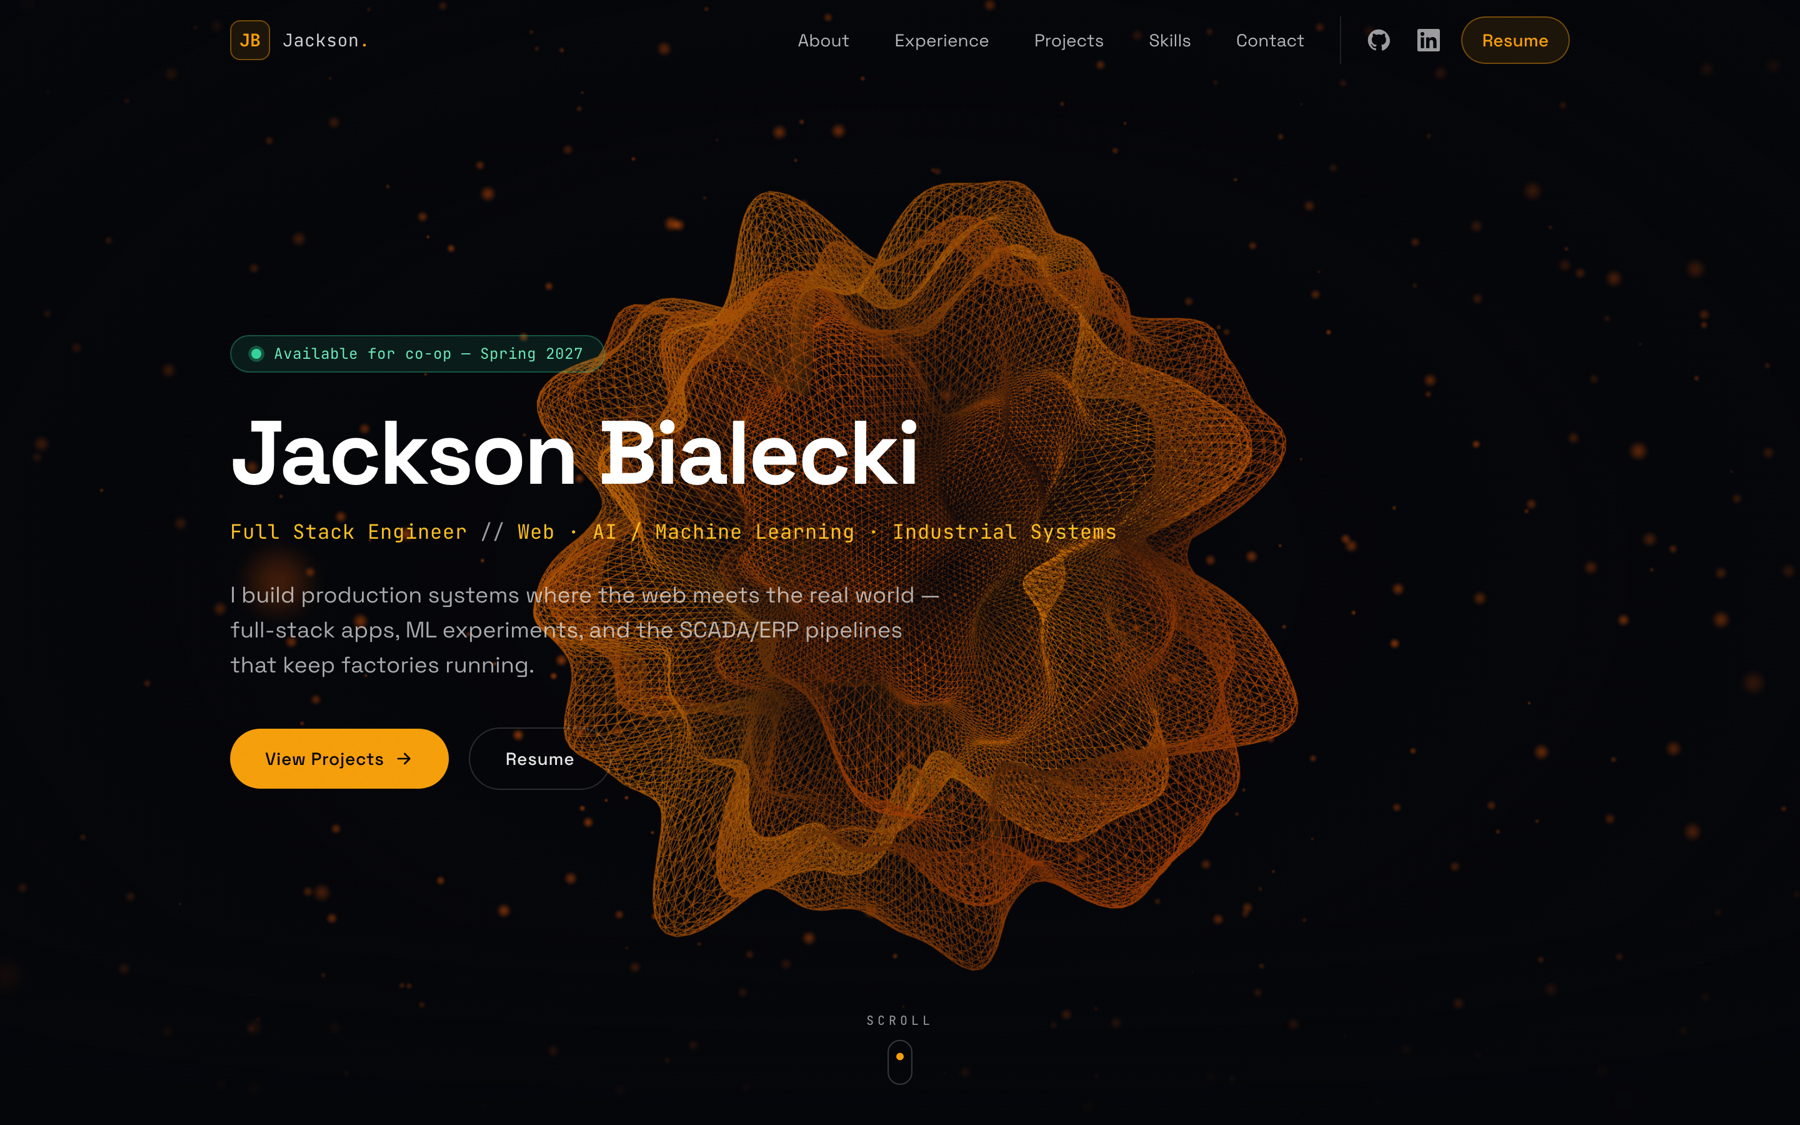
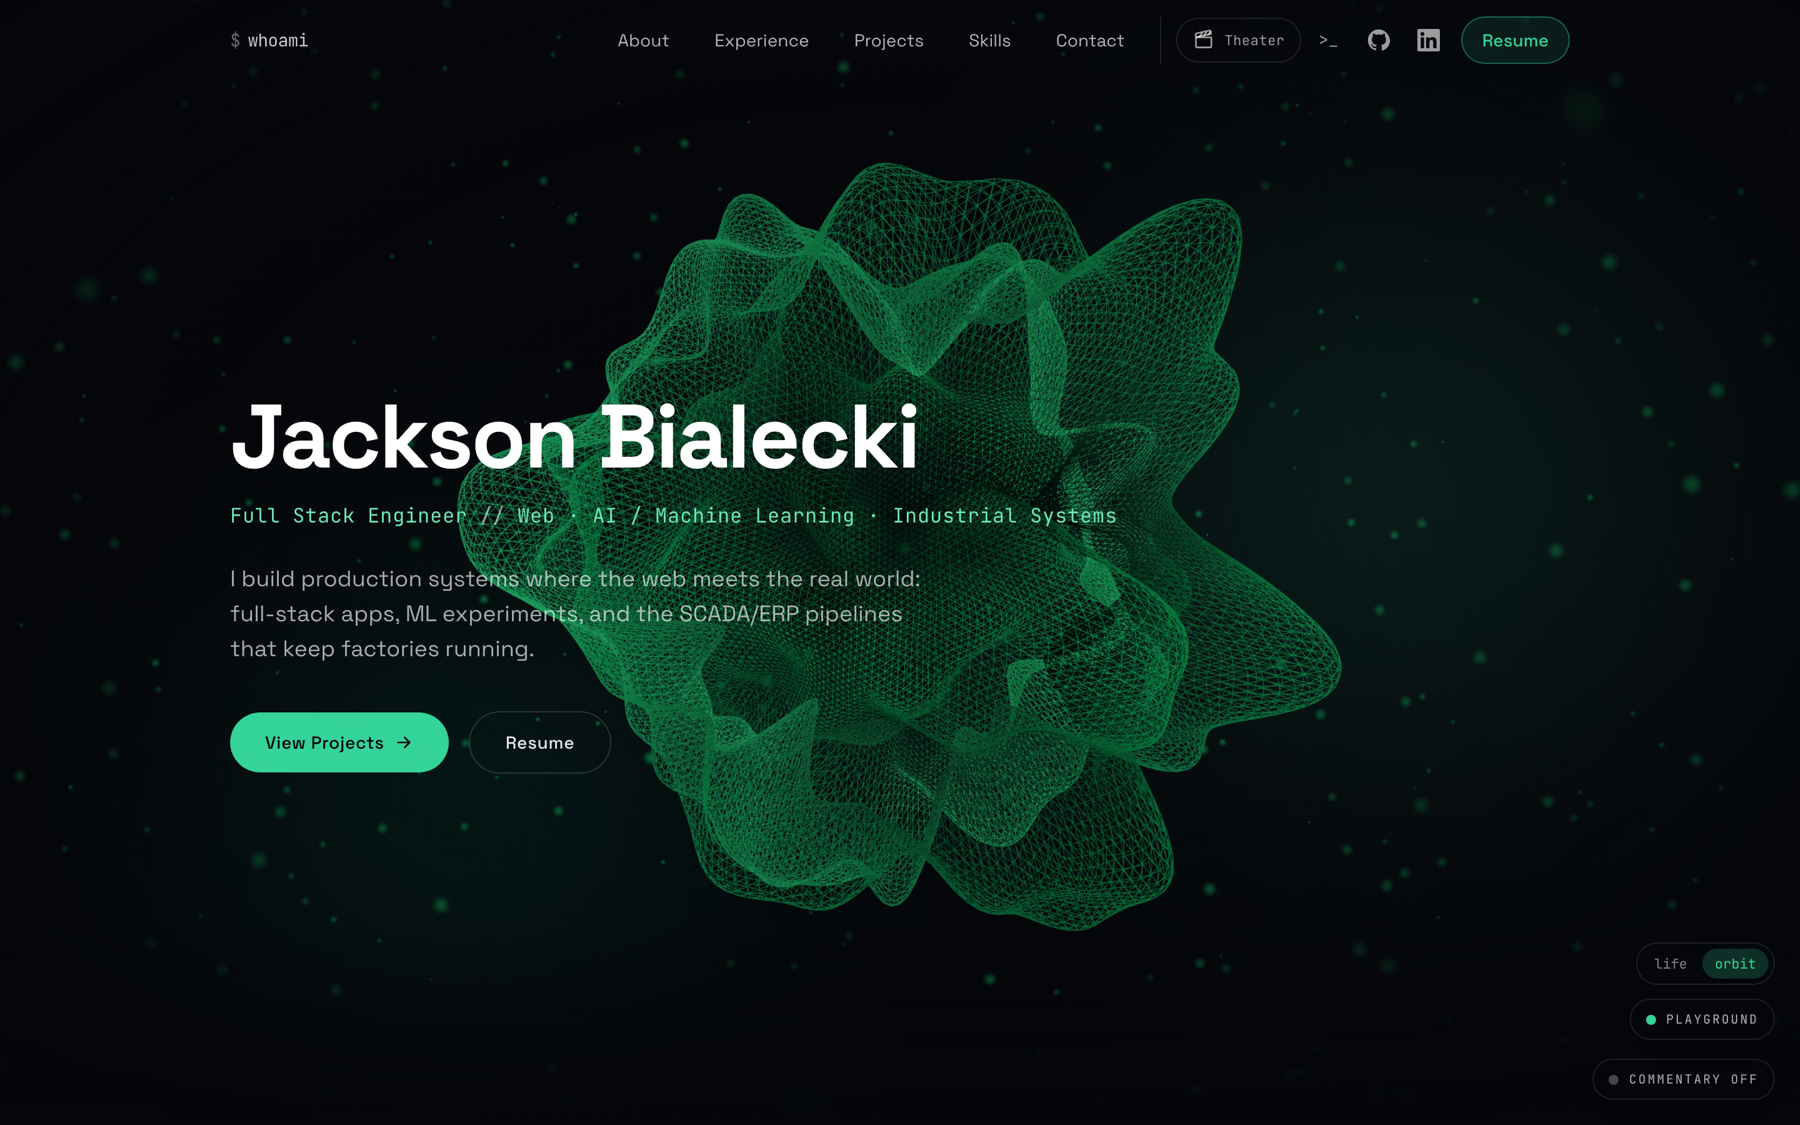
Updated with new resume

diff --git a/lib/caseStudies.ts b/lib/caseStudies.ts
@@ -36,14 +36,14 @@ export const professionalCaseStudySlugs = [
 export const caseStudies: CaseStudy[] = [
   {
     slug: "voyage-foods-dashboard",
-    lastModified: "2026-07-20",
+    lastModified: "2026-07-23",
     company: "Voyage Foods",
     cardName: "Manufacturing Ops Dashboard",
     cardBlurb:
       "A centralized React dashboard unifying Cin7 Core ERP, SafetyChain QA, and 200+ live Ignition SCADA tags into one plant-floor view with a SQLite → PostgreSQL migration powering the history layer.",
     headline: "One dashboard for the plant floor: ERP, QA, and 200+ live SCADA tags",
     role: "Computer Science Engineer Intern",
-    period: "May 2026 - Aug 2026",
+    period: "May 2026 - Present",
     location: "Mason, OH",
     accentLabel: "Industrial Systems",
     tags: ["React", "PostgreSQL", "Ignition SCADA", "OPC-UA", "Cin7 ERP", "SafetyChain"],
@@ -239,6 +239,68 @@ export const caseStudies: CaseStudy[] = [
       alt: "The 8-bit computer built across multiple breadboards with hundreds of jumper wires",
       width: 2000,
       height: 1500,
+    },
+  },
+  {
+    slug: "media-archiver",
+    lastModified: "2026-07-23",
+    company: "Personal Project",
+    cardName: "Self-Hosted Media Archiver",
+    cardBlurb:
+      "A Dockerized, fully-local archive for 11,000+ saved short-form videos: resumable concurrent downloads, a SQLite index, FastAPI range streaming, and a virtualized React interface, with optional Plex export.",
+    headline: "Archiving 11,000+ short-form videos, fully self-hosted",
+    role: "Solo Build",
+    period: "2025 - Present",
+    location: "Self-Hosted · Docker",
+    accentLabel: "Full-Stack · Self-Hosted",
+    tags: ["Python", "FastAPI", "React", "TypeScript", "SQLite", "Docker"],
+    summary:
+      "Short-form videos you save aren't really yours: they live on someone else's servers and vanish when a video is taken down or an account goes private. I built a self-hosted archive that pulls everything I'd favorited onto my own disk, indexes it, and streams it back through a fast web interface. No cloud, no account, nothing leaving the machine.",
+    problem: [
+      "I'd favorited thousands of short-form videos over the years, and they kept disappearing: deleted posts, private accounts, dead links. A 'saved' list is only a bookmark to content someone else controls, not a copy of it.",
+      "Archiving that much media is its own problem. Downloads fail and have to resume without starting over, 11,000+ files need to stay organized and de-duplicated, and browsing a library that large has to feel instant instead of loading everything at once.",
+    ],
+    approach: [
+      {
+        title: "Download resumably, in parallel",
+        body: "I built a concurrent downloader that fetches many items at once and checkpoints its progress, so an interrupted run picks up exactly where it stopped instead of re-downloading what it already has.",
+      },
+      {
+        title: "Index everything in SQLite",
+        body: "Every item is recorded in a SQLite index with its metadata, so the archive can dedupe, track what's already downloaded, and answer queries against 11,000+ entries without scanning the disk.",
+      },
+      {
+        title: "Stream it back with FastAPI",
+        body: "A FastAPI backend serves the media with HTTP range requests, so videos seek and scrub instantly and the browser only pulls the bytes it needs instead of whole files.",
+      },
+      {
+        title: "Browse thousands of items smoothly",
+        body: "The React front end is virtualized, rendering only the rows on screen, so scrolling a library thousands of items deep stays smooth. The whole thing ships as a Docker container and can optionally export into a Plex library.",
+      },
+    ],
+    stack: [
+      { group: "Backend", items: ["Python", "FastAPI", "Range Streaming"] },
+      { group: "Frontend", items: ["React", "TypeScript", "Virtualized Lists"] },
+      { group: "Data", items: ["SQLite", "Local Media Store"] },
+      { group: "Deploy", items: ["Docker", "Self-Hosted", "Plex (optional)"] },
+    ],
+    outcomes: [
+      { metric: "11,000+", label: "media items archived & streamable" },
+      { metric: "Self-hosted", label: "fully local, no cloud services" },
+      { metric: "Docker", label: "one-container deploy" },
+    ],
+    highlights: [
+      "Resumable, concurrent downloads that never restart from zero.",
+      "SQLite index keeps 11,000+ items de-duplicated and queryable.",
+      "FastAPI range streaming for instant seeking and scrubbing.",
+      "Virtualized React UI stays smooth thousands of items deep.",
+      "Optional Plex export to watch the archive anywhere.",
+    ],
+    image: {
+      src: "/media-archiver-overview.svg",
+      alt: "Data-flow diagram: saved short-form media is pulled by a resumable, concurrent downloader, indexed in SQLite alongside a local media store, and served by a FastAPI backend with HTTP range streaming to a virtualized React interface and an optional Plex library, all running self-hosted with no cloud services.",
+      width: 1360,
+      height: 460,
     },
   },
   {

diff --git a/lib/data.ts b/lib/data.ts
@@ -130,6 +130,17 @@ export const projects: Project[] = [
     featured: true,
     image: "/8bit-computer.webp",
   },
+  {
+    name: "Self-Hosted Short-Form Media Archiver",
+    blurb:
+      "A Dockerized, fully-local archive for 11,000+ saved short-form videos. Resumable concurrent downloads, a SQLite index, FastAPI range streaming, and a virtualized React interface keep a library thousands of items deep fast and entirely under your control, with optional Plex export.",
+    tools: ["Python", "FastAPI", "React", "TypeScript", "SQLite", "Docker"],
+    github: "https://github.com/JackB296/tiktok-favorites-archiver",
+    caseStudy: "media-archiver",
+    accentLabel: "Full-Stack · Self-Hosted",
+    featured: true,
+    image: "/media-archiver-overview.svg",
+  },
   ...demoProjects,
 ];
 
@@ -141,23 +152,23 @@ type SkillGroup = {
 export const skillGroups: SkillGroup[] = [
   {
     title: "Languages",
-    skills: ["C#", "Java", "Python", "C", "C++", "SQL", "JavaScript", "HTML/CSS", "MATLAB", "VBA"],
+    skills: ["TypeScript", "JavaScript", "C#", "Python", "Java", "SQL", "C / C++", "HTML/CSS"],
   },
   {
     title: "Frameworks",
-    skills: ["React", "Angular", "Node.js", "Flask", ".NET"],
+    skills: ["React", "Next.js", "Angular", "Node.js", ".NET", "Flask"],
   },
   {
-    title: "Databases & Cloud",
-    skills: ["PostgreSQL", "Google Cloud SQL", "Cloud Scheduler", "SQLite", "MS Access", "pgAdmin"],
+    title: "Data & Infrastructure",
+    skills: ["PostgreSQL", "SQLite", "Docker", "Kubernetes", "Git", "CI/CD", "Google Cloud Platform"],
   },
   {
     title: "Industrial Systems",
-    skills: ["Ignition SCADA", "Tag Historian", "OPC-UA", "Siemens S7 PLCs", "Cin7 ERP", "SafetyChain"],
+    skills: ["Ignition SCADA", "OPC-UA", "Siemens S7 PLCs", "Cin7 Core ERP", "SafetyChain QA", "Limble CMMS"],
   },
   {
-    title: "Tools & Concepts",
-    skills: ["Git", "REST APIs", "API Integration", "Database Design", "SSL/TLS", "Full-Stack Dev"],
+    title: "AI-Assisted Development",
+    skills: ["Claude Code", "OpenAI Codex", "MCP Servers", "Custom Claude Skills", "Agentic Workflows"],
   },
   {
     title: "Professional",

diff --git a/tests/seo.spec.ts b/tests/seo.spec.ts
@@ -13,13 +13,13 @@ test("sitemap publishes stable modification dates for indexable routes", async (
 
   const sitemap = await response.text();
   expect(sitemap).toMatch(
-    /<loc>https:\/\/jbialecki\.com<\/loc>\s*<lastmod>2026-07-20T00:00:00.000Z<\/lastmod>/
+    /<loc>https:\/\/jbialecki\.com<\/loc>\s*<lastmod>2026-07-23T00:00:00.000Z<\/lastmod>/
   );
   expect(sitemap).toMatch(
     /<loc>https:\/\/jbialecki\.com\/resume<\/loc>\s*<lastmod>2026-07-19T00:00:00.000Z<\/lastmod>/
   );
   expect(sitemap).toMatch(
-    /<loc>https:\/\/jbialecki\.com\/work\/voyage-foods-dashboard<\/loc>\s*<lastmod>2026-07-20T00:00:00.000Z<\/lastmod>/
+    /<loc>https:\/\/jbialecki\.com\/work\/voyage-foods-dashboard<\/loc>\s*<lastmod>2026-07-23T00:00:00.000Z<\/lastmod>/
   );
   expect(sitemap).toMatch(
     /<loc>https:\/\/jbialecki\.com\/flappy<\/loc>\s*<lastmod>2026-07-20T00:00:00.000Z<\/lastmod>/
@@ -55,7 +55,7 @@ test("case studies publish TechArticle structured data", async ({ page }) => {
     "@type": "TechArticle",
     headline: "One dashboard for the plant floor: ERP, QA, and 200+ live SCADA tags",
     url: "https://jbialecki.com/work/voyage-foods-dashboard",
-    dateModified: "2026-07-20",
+    dateModified: "2026-07-23",
     author: {
       "@type": "Person",
       name: "Jackson Bialecki",

diff --git a/components/home/Skills.tsx b/components/home/Skills.tsx
@@ -17,7 +17,7 @@ const icons: Record<string, ReactNode> = {
       <rect x="14" y="14" width="7" height="7" rx="1.5" />
     </>
   ),
-  "Databases & Cloud": (
+  "Data & Infrastructure": (
     <>
       <ellipse cx="12" cy="6" rx="8" ry="3" />
       <path d="M4 6v6c0 1.7 3.6 3 8 3s8-1.3 8-3V6M4 12v6c0 1.7 3.6 3 8 3s8-1.3 8-3v-6" strokeLinecap="round" />
@@ -28,10 +28,10 @@ const icons: Record<string, ReactNode> = {
       <path d="M3 21h18M5 21V10l5 3V10l5 3V7l4 2v12" strokeLinecap="round" strokeLinejoin="round" />
     </>
   ),
-  "Tools & Concepts": (
+  "AI-Assisted Development": (
     <>
-      <circle cx="12" cy="12" r="3" />
-      <path d="M12 2v3M12 19v3M2 12h3M19 12h3M5 5l2 2M17 17l2 2M19 5l-2 2M7 17l-2 2" strokeLinecap="round" />
+      <path d="M12 3l1.9 4.6L18.5 9.5 13.9 11.4 12 16l-1.9-4.6L5.5 9.5l4.6-1.9L12 3z" strokeLinejoin="round" />
+      <path d="M18.5 15.5l.8 1.9 1.9.8-1.9.8-.8 1.9-.8-1.9-1.9-.8 1.9-.8.8-1.9z" strokeLinejoin="round" />
     </>
   ),
   Professional: (

diff --git a/lib/structuredData.ts b/lib/structuredData.ts
@@ -3,7 +3,7 @@ import type { Demo } from "./demos";
 import { profile } from "./data";
 
 export const SITE_URL = "https://jbialecki.com";
-export const PROFILE_LAST_MODIFIED = "2026-07-20";
+export const PROFILE_LAST_MODIFIED = "2026-07-23";
 /** Bump when the résumé PDF (public/Bialecki_Jackson_Resume2026.pdf) is regenerated. */
 export const RESUME_LAST_MODIFIED = "2026-07-19";
 
@@ -33,9 +33,13 @@ const person = {
     "Full-Stack Web Development",
     "Artificial Intelligence",
     "Machine Learning",
+    "AI-Assisted Development",
     "Industrial Control Systems",
     "PostgreSQL",
     "React",
+    "Next.js",
+    "TypeScript",
+    "Docker",
   ],
   sameAs: [profile.github, profile.linkedin],
 };

diff --git a/components/home/About.tsx b/components/home/About.tsx
@@ -4,11 +4,11 @@ import { profile, education } from "@/lib/data";
 import Reveal from "../ui/Reveal";
 
 const competencies = [
-  "Full-Stack Web (React · Angular · .NET · Node)",
+  "Full-Stack Web (React · Next.js · Angular · .NET)",
   "Data & Migrations (PostgreSQL · SQL)",
   "Industrial / SCADA Integration",
   "API Design & Third-Party Integration",
-  "AI / ML Experimentation",
+  "AI-Assisted Development (Claude Code · Codex · MCP)",
 ];
 
 export default function About() {

diff --git a/lib/projectNav.ts b/lib/projectNav.ts
@@ -13,6 +13,7 @@ const caseStudyRing: RingItem[] = professionalCaseStudies.map((c) => ({
 // The 8-bit case-study page and all demo pages cycle through this ring.
 const projectRing: RingItem[] = [
   { href: "/work/8-bit-computer", label: "8-Bit Computer" },
+  { href: "/work/media-archiver", label: "Media Archiver" },
   ...demos.map((d) => ({ href: `/${d.slug}`, label: `${d.title} ${d.titleAccent}` })),
 ];
 

diff --git a/tests/smoke.spec.ts b/tests/smoke.spec.ts
@@ -18,6 +18,7 @@ const pages = [
   "/work/jakapa-canvas-integration",
   "/work/aef-access-migration",
   "/work/8-bit-computer",
+  "/work/media-archiver",
 ];
 
 for (const path of pages) {

diff --git a/README.md b/README.md
@@ -6,7 +6,7 @@
 
 The site behind [jbialecki.com](https://jbialecki.com): a WebGL hero, sixteen film modes that restyle the whole site, seven interactive demos you can play in the browser, a guest terminal, and write-ups of the software I've shipped on a factory floor and at an ed-tech startup.
 
-[![Live site](https://img.shields.io/badge/live-jbialecki.com-f59e0b?style=flat-square)](https://jbialecki.com)
+[![Live site](https://img.shields.io/badge/live-jbialecki.com-34d399?style=flat-square)](https://jbialecki.com)
 &nbsp;![Next.js 14](https://img.shields.io/badge/Next.js_14-111-fff?style=flat-square&logo=nextdotjs&logoColor=fff)
 &nbsp;![TypeScript](https://img.shields.io/badge/TypeScript-3178c6?style=flat-square&logo=typescript&logoColor=fff)
 &nbsp;![Three.js](https://img.shields.io/badge/Three.js-111-fff?style=flat-square&logo=threedotjs&logoColor=fff)
@@ -31,7 +31,7 @@ The site behind [jbialecki.com](https://jbialecki.com): a WebGL hero, sixteen fi
 - **A playground takeover.** Flip the switch and live simulations run behind the home page itself, Game of Life behind Projects and the cloth sim behind Skills, with a persistent scoreboard.
 - **Seven interactive demos.** Six began as Python projects and were rebuilt in JavaScript and canvas: a raycaster, a Verlet cloth, Conway's Game of Life, the Mandelbrot set, a perceptron, and the pi-from-collisions trick. The Neuroevolution Flappy Bird runs as its original p5.js build, embedded live. All seven share one canvas scaffold that handles DPR sizing, pauses off-screen, and holds a still frame under reduced-motion.
 - **A serverless contact backend.** The form posts to `/api/contact`, which validates the payload, blocks bots with a honeypot, rate-limits by IP through a clock-injectable limiter with bounded memory, and sends mail through Resend. With no API key set it stays working and shows a friendly "email me directly" message.
-- **Case studies, written up as problem, approach, and outcome.** A manufacturing dashboard at Voyage Foods, a Canvas LMS integration at JAKAPA, shipping on a 50+ engineer team at LCS, a solo database migration at American Equity Funding, plus a hardware write-up of an 8-bit computer I built on breadboards.
+- **Case studies, written up as problem, approach, and outcome.** A manufacturing dashboard at Voyage Foods, a Canvas LMS integration at JAKAPA, shipping on a 50+ engineer team at LCS, a solo database migration at American Equity Funding, and two personal builds: an 8-bit computer wired by hand on breadboards, and a self-hosted archiver that keeps 11,000+ short-form videos on my own disk.
 - **Production plumbing.** Vercel CI/CD, a generated Open Graph image, a sitemap, robots rules, JSON-LD structured data, and five Playwright suites that run in CI so a bad change can't quietly break a route.
 
 ## Film modes
@@ -62,7 +62,7 @@ Each one runs live in the browser, and most link to their source on GitHub from 
 - **Framework:** Next.js 14 (App Router), TypeScript, React 18
 - **3D and graphics:** Three.js, React Three Fiber, drei, custom GLSL shaders, HTML canvas
 - **Motion:** Framer Motion, Lenis smooth scroll
-- **Styling:** Tailwind CSS, a dark theme on a single amber accent (`#f59e0b`), plus a film grade layer of CSS custom properties
+- **Styling:** Tailwind CSS, a dark theme on a single emerald accent (`#34d399`), plus a film grade layer of CSS custom properties
 - **Backend:** Resend, on a serverless Vercel route
 - **Ops:** Vercel hosting and Analytics, Playwright, GitHub Actions CI
 
@@ -95,7 +95,7 @@ app/
   flappy/                The Neuroevolution Flappy Bird game, embedded live
   raycaster/ cloth/ mandelbrot/ game-of-life/ perceptron/ pi-blocks/
                          One route per demo, each built on components/demos/DemoShell
-  work/[slug]/page.tsx   Case-study pages (Voyage Foods, LCS, JAKAPA, AEF, 8-bit computer)
+  work/[slug]/page.tsx   Case-study pages (Voyage Foods, LCS, JAKAPA, AEF, 8-bit computer, media archiver)
   film-credits/page.tsx  Sources and licenses for the film-mode media
   resume/page.tsx        The PDF résumé, embedded with print and download
   api/contact/route.ts   Serverless contact endpoint (Resend)
